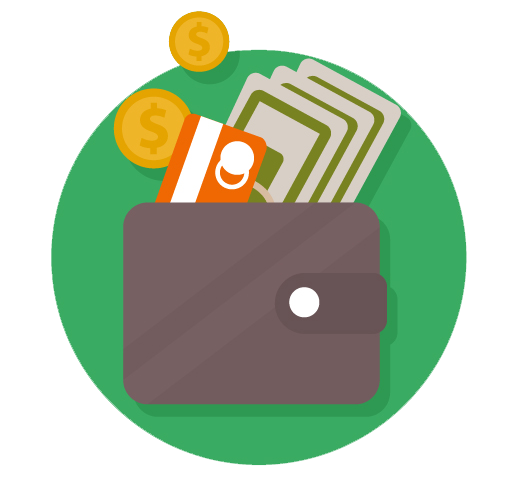
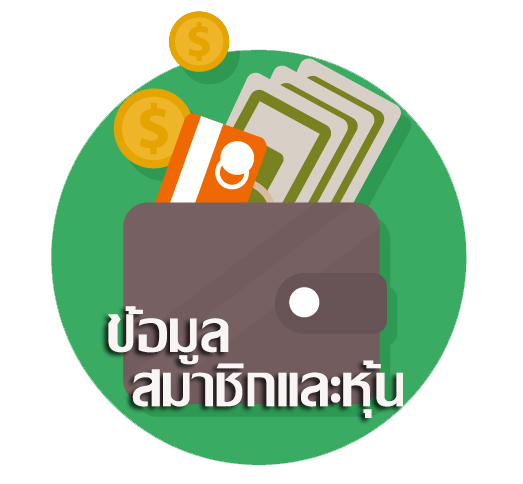
Coop menu

Changed region(s): [[0.1836, 0.6198, 0.7954, 0.8678]]

diff --git a/www/coop.html b/www/coop.html
@@ -24,24 +24,49 @@
     <div class="upage" id="mainpage">
       <div class="upage-outer">
         <div class="upage-content ac0 content-area vertical-col left" id="page_56_52">
+          <div class="grid grid-pad urow uib_row_2 row-height-2" data-uib="layout/row" data-ver="0">
+            <div class="col uib_col_2 col-0_12-12" data-uib="layout/col" data-ver="0">
+              <div class="widget-container content-area vertical-col">
+                <span class="uib_shim"></span>
+              </div>
+            </div>
+            <span class="uib_shim"></span>
+          </div>
 
-          <a class="uib-graphic-button default-graphic-sizing default-image-sizing hover-graphic-button active-graphic-button default-graphic-button default-graphic-text widget uib_w_5 d-margins media-button-text-bottom" data-uib="media/graphic_button" data-ver="0"
-          href="#" id="btnCoopDetailImg">
-            <img src="images/info.png">
+          <div class="sbs-container widget uib_w_8 d-margins sbsCoopMenu" data-uib="layout/side_by_side" data-ver="0">
+            <div class="leftContent widget-container">
+              <a class="uib-graphic-button default-graphic-sizing default-image-sizing hover-graphic-button active-graphic-button default-graphic-button default-graphic-text widget uib_w_5 d-margins" data-uib="media/graphic_button" data-ver="0" href="#" id="btnCoopDetailImg">
+                <img src="images/info.png">
 
-            <span class="uib-caption">ข้อมูลสมาชิกและหุ้น</span>
-          </a>
-          <a class="uib-graphic-button default-graphic-sizing default-image-sizing hover-graphic-button active-graphic-button default-graphic-button default-graphic-text widget uib_w_6 d-margins media-button-text-bottom" data-uib="media/graphic_button" data-ver="0"
-          href="#" id="btnLoanDetail">
-            <img src="images/loan.png">
-            <span class="uib-caption">ข้อมูลเงินกู้</span>
-          </a>
+                <span class="uib-caption"></span>
+              </a>
+            </div>
+            <div class="rightContent widget-container">
+              <a class="uib-graphic-button default-graphic-sizing default-image-sizing hover-graphic-button active-graphic-button default-graphic-button default-graphic-text widget uib_w_6 d-margins" data-uib="media/graphic_button" data-ver="0" href="#" id="btnLoanDetail">
+                <img src="images/loan.png">
 
-          <a class="uib-graphic-button default-graphic-sizing default-image-sizing hover-graphic-button active-graphic-button default-graphic-button default-graphic-text widget uib_w_7 d-margins media-button-text-bottom" data-uib="media/graphic_button" data-ver="0"
-          href="#" id="btnCoopDep">
-            <img src="images/saving.png">
-            <span class="uib-caption">ข้อมูลเงินฝาก</span>
-          </a>
+                <span class="uib-caption"></span>
+              </a>
+            </div>
+          </div>
+          <div class="grid grid-pad urow uib_row_3 row-height-3" data-uib="layout/row" data-ver="0">
+            <div class="col uib_col_3 col-0_12-12" data-uib="layout/col" data-ver="0">
+              <div class="widget-container content-area center-h-v-col">
+                <a class="uib-graphic-button default-graphic-sizing default-image-sizing hover-graphic-button active-graphic-button default-graphic-button default-graphic-text widget uib_w_7 d-margins" data-uib="media/graphic_button" data-ver="0" href="#" id="btnCoopDep">
+                  <img src="images/saving.png">
+
+                  <span class="uib-caption"></span>
+                </a><span class="uib_shim"></span>
+              </div>
+            </div>
+            <span class="uib_shim"></span>
+          </div>
+
+          <div class="leftContent widget-container">
+
+          </div>
+          <div class="rightContent widget-container"></div>
+
         </div>
         <ion-header-bar class="bar inner-element uib_w_1 bar-positive bar-header" data-uib="ionic/header" data-ver="0">
           <div class="buttons widget-container content-area horiz-area wrapping-col"></div>

diff --git a/www/css/coop_main.less.css b/www/css/coop_main.less.css
@@ -332,7 +332,6 @@ body#afui .splt {
     margin-right: 6px;
   }
   .d-margins {
-    margin-top: 15px;
     margin-bottom: 6px;
   }
 }
@@ -380,5 +379,89 @@ body#afui .splt {
 @media all {
   .default-image-sizing > img {
     width: 150px;
+  }
+}
+.sbs-container {
+  display: -webkit-flex;
+  display: -moz-flex;
+  display: -ms-flexbox;
+  display: -o-flex;
+  display: flex;
+  flex-direction: row;
+}
+.leftContent,
+.rightContent {
+  display: inline;
+  width: 50%;
+}
+@media all {
+  .grid-pad {
+    padding-top: 10px;
+    padding-bottom: 10px;
+    padding-left: 20px;
+    padding-right: 20px;
+  }
+}
+@media all and (min-width: 0px) {
+  .row-height-1 > .col > .content-area {
+    min-height: 150px;
+  }
+}
+@media all {
+  .sbsCoopMenu > .leftContent,
+  .sbsCoopMenu > .rightContent {
+    width: 50%;
+    text-align: -webkit-center;
+  }
+  .sbsCoopMenu > .leftContent,
+  .sbsCoopMenu > .rightContent {
+    width: 50%;
+    text-align: -webkit-center;
+  }
+}
+.uib_row_2:not(.cright) > .col {
+  padding-right: 20px;
+}
+.uib_row_2.cright > .col {
+  padding-left: 20px;
+}
+@media all {
+  .col-0_12-12 {
+    width: auto;
+    float: none !important;
+  }
+  .urow:not(.cright) > .col-0_12-12 {
+    padding-right: 0px !important;
+  }
+  .urow.cright > .col-0_12-12 {
+    padding-left: 0px !important;
+  }
+}
+@media all and (min-width: 0px) {
+  .row-height-2 > .col > .content-area {
+    min-height: 7px;
+  }
+}
+.uib_row_3:not(.cright) > .col {
+  padding-right: 20px;
+}
+.uib_row_3.cright > .col {
+  padding-left: 20px;
+}
+@media all {
+  .col-0_12-12 {
+    width: auto;
+    float: none !important;
+  }
+  .urow:not(.cright) > .col-0_12-12 {
+    padding-right: 0px !important;
+  }
+  .urow.cright > .col-0_12-12 {
+    padding-left: 0px !important;
+  }
+}
+@media all and (min-width: 0px) {
+  .row-height-3 > .col > .content-area {
+    min-height: 100px;
   }
 }

diff --git a/www/css/coop/.ignore/coop_main.less b/www/css/coop/.ignore/coop_main.less
@@ -19,3 +19,13 @@
 @import "styles/default-graphic-text -- text.less";
 @import "styles/default-graphic-sizing -- graphic_sizing.less";
 @import "styles/default-image-sizing -- graphic_image_sizing.less";
+
+@import "side_by_side.less";
+
+@import "styles/grid-pad -- padding.less";
+@import "styles/row-height-1 -- row_height.less";
+@import "styles/sbsCoopMenu -- side_by_side_styles.less";
+@import "uib_row_2.less";
+@import "styles/row-height-2 -- row_height.less";
+@import "uib_row_3.less";
+@import "styles/row-height-3 -- row_height.less";

diff --git a/www/css/coop/coop_main.less b/www/css/coop/coop_main.less
@@ -19,3 +19,13 @@
 @import "styles/default-graphic-text -- text.less";
 @import "styles/default-graphic-sizing -- graphic_sizing.less";
 @import "styles/default-image-sizing -- graphic_image_sizing.less";
+
+@import "side_by_side.less";
+
+@import "styles/grid-pad -- padding.less";
+@import "styles/row-height-1 -- row_height.less";
+@import "styles/sbsCoopMenu -- side_by_side_styles.less";
+@import "uib_row_2.less";
+@import "styles/row-height-2 -- row_height.less";
+@import "uib_row_3.less";
+@import "styles/row-height-3 -- row_height.less";

diff --git a/www/css/coop/.ignore/uib_row_1.less b/www/css/coop/.ignore/uib_row_1.less
@@ -1,0 +1,11 @@
+@gutter_uib_row_1: 20px;
+
+.uib_row_1:not(.cright) > .col { padding-right:@gutter_uib_row_1; }
+
+.uib_row_1.cright       > .col { padding-left:@gutter_uib_row_1; }
+
+@media all {
+ .col-0_12-12 { width: auto; float: none !important; }
+ .urow:not(.cright) > .col-0_12-12 { padding-right:0px !important; }
+ .urow.cright       > .col-0_12-12 { padding-left:0px !important; }
+}

diff --git a/www/css/coop/.ignore/uib_row_2.less b/www/css/coop/.ignore/uib_row_2.less
@@ -1,0 +1,11 @@
+@gutter_uib_row_2: 20px;
+
+.uib_row_2:not(.cright) > .col { padding-right:@gutter_uib_row_2; }
+
+.uib_row_2.cright       > .col { padding-left:@gutter_uib_row_2; }
+
+@media all {
+ .col-0_12-12 { width: auto; float: none !important; }
+ .urow:not(.cright) > .col-0_12-12 { padding-right:0px !important; }
+ .urow.cright       > .col-0_12-12 { padding-left:0px !important; }
+}

diff --git a/www/css/coop/.ignore/uib_row_3.less b/www/css/coop/.ignore/uib_row_3.less
@@ -1,0 +1,11 @@
+@gutter_uib_row_3: 20px;
+
+.uib_row_3:not(.cright) > .col { padding-right:@gutter_uib_row_3; }
+
+.uib_row_3.cright       > .col { padding-left:@gutter_uib_row_3; }
+
+@media all {
+ .col-0_12-12 { width: auto; float: none !important; }
+ .urow:not(.cright) > .col-0_12-12 { padding-right:0px !important; }
+ .urow.cright       > .col-0_12-12 { padding-left:0px !important; }
+}

diff --git a/www/css/coop/uib_row_1.less b/www/css/coop/uib_row_1.less
@@ -1,0 +1,11 @@
+@gutter_uib_row_1: 20px;
+
+.uib_row_1:not(.cright) > .col { padding-right:@gutter_uib_row_1; }
+
+.uib_row_1.cright       > .col { padding-left:@gutter_uib_row_1; }
+
+@media all {
+ .col-0_12-12 { width: auto; float: none !important; }
+ .urow:not(.cright) > .col-0_12-12 { padding-right:0px !important; }
+ .urow.cright       > .col-0_12-12 { padding-left:0px !important; }
+}

diff --git a/www/css/coop/uib_row_2.less b/www/css/coop/uib_row_2.less
@@ -1,0 +1,11 @@
+@gutter_uib_row_2: 20px;
+
+.uib_row_2:not(.cright) > .col { padding-right:@gutter_uib_row_2; }
+
+.uib_row_2.cright       > .col { padding-left:@gutter_uib_row_2; }
+
+@media all {
+ .col-0_12-12 { width: auto; float: none !important; }
+ .urow:not(.cright) > .col-0_12-12 { padding-right:0px !important; }
+ .urow.cright       > .col-0_12-12 { padding-left:0px !important; }
+}

diff --git a/www/css/coop/uib_row_3.less b/www/css/coop/uib_row_3.less
@@ -1,0 +1,11 @@
+@gutter_uib_row_3: 20px;
+
+.uib_row_3:not(.cright) > .col { padding-right:@gutter_uib_row_3; }
+
+.uib_row_3.cright       > .col { padding-left:@gutter_uib_row_3; }
+
+@media all {
+ .col-0_12-12 { width: auto; float: none !important; }
+ .urow:not(.cright) > .col-0_12-12 { padding-right:0px !important; }
+ .urow.cright       > .col-0_12-12 { padding-left:0px !important; }
+}

diff --git a/www/css/coop/.ignore/styles/sbsCoopMenu -- side_by_side_styles.less b/www/css/coop/.ignore/styles/sbsCoopMenu -- side_by_side_styles.less
@@ -1,0 +1,13 @@
+@media all {
+.sbsCoopMenu > .leftContent,
+.sbsCoopMenu > .rightContent {  width:50%;
+  text-align:-webkit-center;
+}
+
+.sbsCoopMenu > .leftContent,
+.sbsCoopMenu > .rightContent {  width:50%;
+  text-align:-webkit-center;
+}
+
+}
+

diff --git a/www/css/coop/styles/sbsCoopMenu -- side_by_side_styles.less b/www/css/coop/styles/sbsCoopMenu -- side_by_side_styles.less
@@ -1,0 +1,13 @@
+@media all {
+.sbsCoopMenu > .leftContent,
+.sbsCoopMenu > .rightContent {  width:50%;
+  text-align:-webkit-center;
+}
+
+.sbsCoopMenu > .leftContent,
+.sbsCoopMenu > .rightContent {  width:50%;
+  text-align:-webkit-center;
+}
+
+}
+
